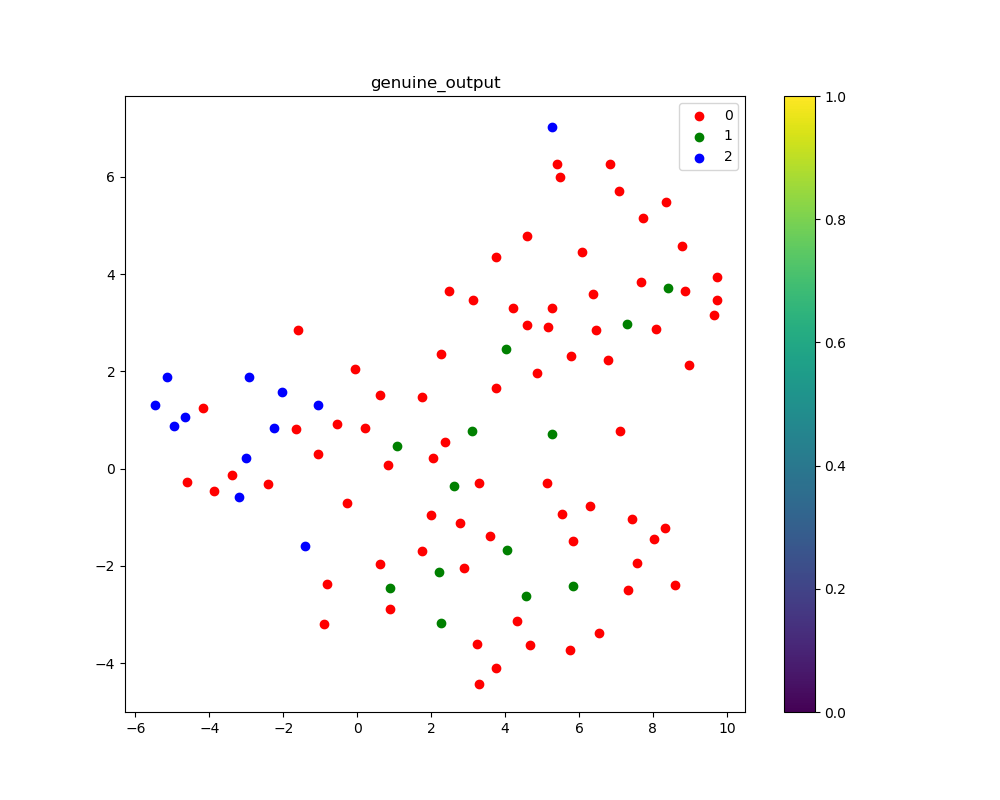
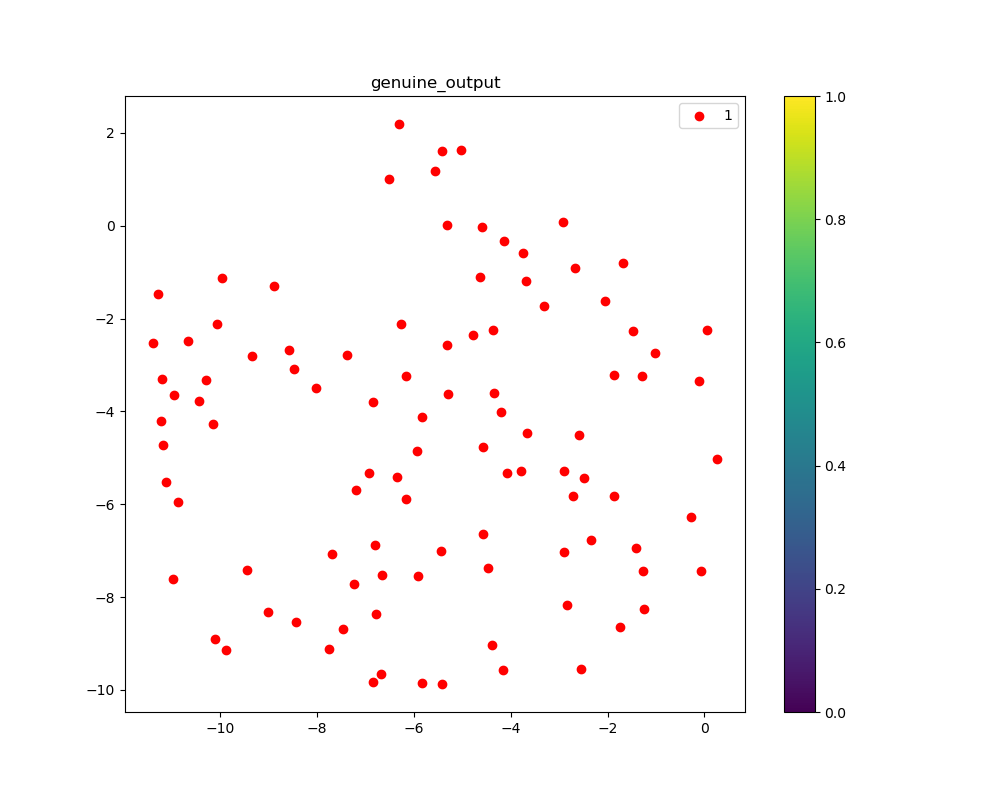
#5 new plot

diff --git a/training/train_LSTM-CNN.py b/training/train_LSTM-CNN.py
@@ -524,8 +524,8 @@ print(f'{n_max_gpus} GPUs available')
 n_gpus = min(2, n_max_gpus)
 print(f'Using {n_gpus} GPUs')
 
-train_data_len = 3000
-val_data_len = 3500
+train_data_len = 30000
+val_data_len = 35000
 
 #識別学習に用いるone-hot表現のラベルを作成
 one_hot_labels = torch.zeros(val_data_len, 3, dtype=torch.float)
@@ -585,7 +585,7 @@ for epoch in range(1, epochs+1):
         _, y_targets = train_labels.clone().max(dim=1)
         output_path1 = "plot/data-tSNE.png"
         output_path2 = "plot/vector-tSNE.png"
-        if epoch == 2:
+        if epoch == 10:
             visualize_embedding(train_gauss_tensor, train_wind_tensor, train_genuine_output, y_targets, output_path1 ,output_path2)
             sys.exit()
         #calculate contrastive loss
